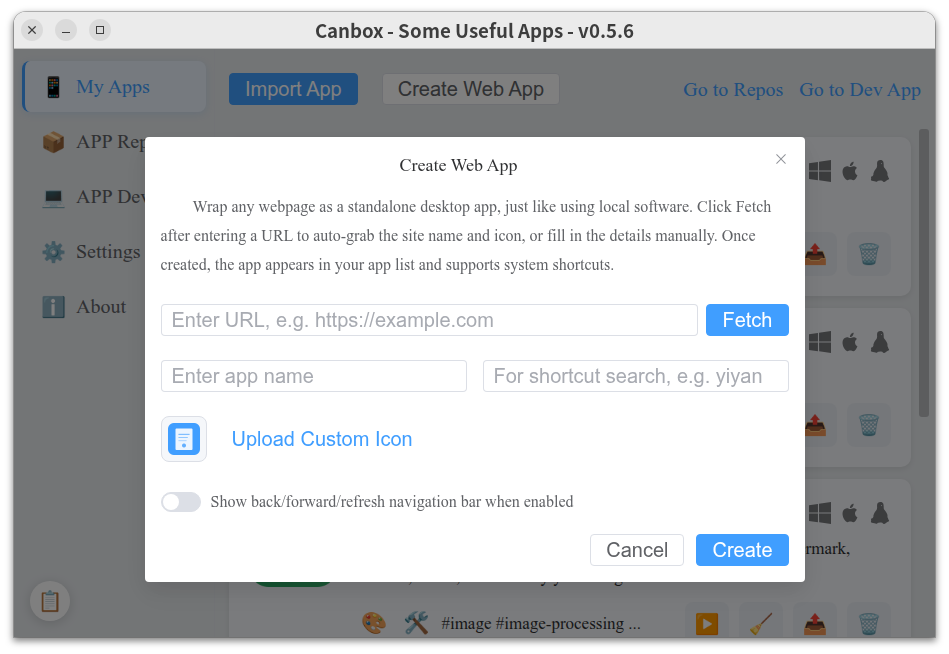
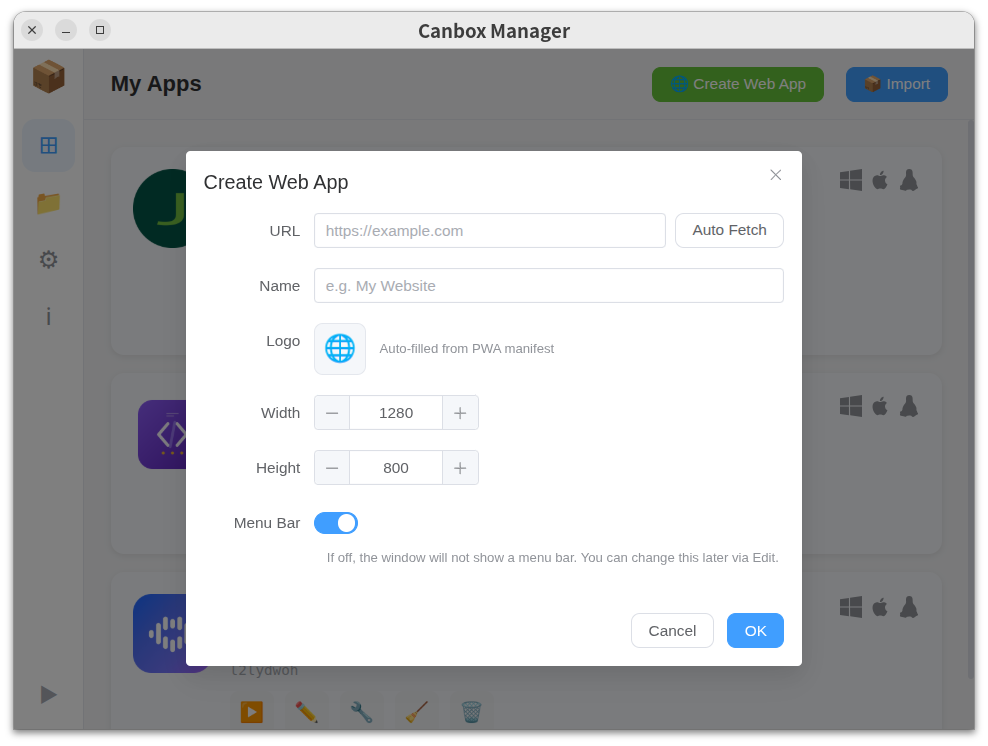
docs：更新文档，增加创建网页应用功能说明与截图

diff --git a/index.html b/index.html
@@ -61,6 +61,11 @@
                     <p class="feature-desc" data-zh="支持 APP 的导入、删除、启动和清理数据，按 appId 物理隔离，干净利落" data-en="Support APP import, delete, launch and clear data, physically isolated by appId, clean and simple">支持 APP 的导入、删除、启动和清理数据，按 appId 物理隔离，干净利落</p>
                 </div>
                 <div class="feature-card">
+                    <div class="feature-icon">🌐</div>
+                    <h3 class="feature-title" data-zh="创建网页应用" data-en="Create Web App">创建网页应用</h3>
+                    <p class="feature-desc" data-zh="将任意网址封装为桌面应用，自动抓取 PWA manifest 预填信息，Chrome UA 伪装，菜单栏可定制，独立 userData 隔离" data-en="Turn any URL into a desktop app with auto PWA manifest scraping, Chrome UA spoofing, customizable menu bar, isolated userData">将任意网址封装为桌面应用，自动抓取 PWA manifest 预填信息，Chrome UA 伪装，菜单栏可定制，独立 userData 隔离</p>
+                </div>
+                <div class="feature-card">
                     <div class="feature-icon">📚</div>
                     <h3 class="feature-title" data-zh="仓库管理" data-en="Repository Management">仓库管理</h3>
                     <p class="feature-desc" data-zh="添加 GitHub 仓库源，浏览和安装社区贡献的应用" data-en="Add GitHub repo sources, browse and install community-contributed apps">添加 GitHub 仓库源，浏览和安装社区贡献的应用</p>
@@ -119,6 +124,18 @@
                             <div class="screenshot-info">
                                 <h3 data-zh="我的 APP" data-en="My Apps">我的 APP</h3>
                                 <p data-zh="管理已安装的 APP，支持导入、启动和清理数据" data-en="Manage installed apps, import, launch, and clear data">管理已安装的 APP，支持导入、启动和清理数据</p>
+                            </div>
+                        </div>
+                        <div class="screenshot-card">
+                            <div class="screenshot-img-wrapper">
+                                <img src="./images/screenshots/MyApps-CreateWebApp.png" alt="创建网页应用" loading="lazy">
+                                <div class="screenshot-overlay">
+                                    <span class="screenshot-zoom">🔍</span>
+                                </div>
+                            </div>
+                            <div class="screenshot-info">
+                                <h3 data-zh="创建网页应用" data-en="Create Web App">创建网页应用</h3>
+                                <p data-zh="将任意网址封装为桌面应用，自动抓取 PWA manifest 预填名称和图标" data-en="Turn any URL into a desktop app with auto PWA manifest scraping for name and icon">将任意网址封装为桌面应用，自动抓取 PWA manifest 预填名称和图标</p>
                             </div>
                         </div>
                         <div class="screenshot-card">
@@ -205,6 +222,10 @@
                 <div class="usage-card">
                     <h3 data-zh="我的 APP" data-en="My Apps">我的 APP</h3>
                     <p data-zh="导入开发者打包好的应用包（ZIP 格式），一键安装使用" data-en="Import packaged apps (ZIP format), install with one click">导入开发者打包好的应用包（ZIP 格式），一键安装使用</p>
+                </div>
+                <div class="usage-card">
+                    <h3 data-zh="创建网页应用" data-en="Create Web App">创建网页应用</h3>
+                    <p data-zh="输入网址自动抓取 PWA 信息，封装为独立桌面应用" data-en="Enter a URL to auto-scrape PWA info and wrap it as a standalone desktop app">输入网址自动抓取 PWA 信息，封装为独立桌面应用</p>
                 </div>
                 <div class="usage-card">
                     <h3 data-zh="APP 仓库" data-en="App Repository">APP 仓库</h3>

diff --git a/canbox-dev.html b/canbox-dev.html
@@ -241,7 +241,7 @@ global.__CANBOX_CORE_PATH__ = path.resolve(__dirname);  // canbox-core 根目录
                     <!-- canbox-manager -->
                     <section id="manager" class="doc-section">
                         <h2 data-zh="canbox-manager（管理器 APP）" data-en="canbox-manager (Manager APP)">canbox-manager（管理器 APP）</h2>
-                        <p data-zh="canbox-manager 是 Canbox 的管理器 APP，负责 APP 管理（导入/删除/启动/清理数据）、仓库管理（添加/删除/同步）、系统设置（语言/自启/字体/日志保留）。" data-en="canbox-manager is the manager APP of Canbox, responsible for APP management (import/delete/launch/clear data), repo management (add/delete/sync), and system settings (language/autostart/font/log retention).">canbox-manager 是 Canbox 的管理器 APP，负责 APP 管理（导入/删除/启动/清理数据）、仓库管理（添加/删除/同步）、系统设置（语言/自启/字体/日志保留）。</p>
+                        <p data-zh="canbox-manager 是 Canbox 的管理器 APP，负责 APP 管理（导入/删除/启动/清理数据）、网页应用创建与编辑、仓库管理（添加/删除/同步）、系统设置（语言/自启/字体/日志保留）。" data-en="canbox-manager is the manager APP of Canbox, responsible for APP management (import/delete/launch/clear data), web app creation & editing, repo management (add/delete/sync), and system settings (language/autostart/font/log retention).">canbox-manager 是 Canbox 的管理器 APP，负责 APP 管理（导入/删除/启动/清理数据）、网页应用创建与编辑、仓库管理（添加/删除/同步）、系统设置（语言/自启/字体/日志保留）。</p>
 
                         <p data-zh="关键约束：canbox-manager 是普通 APP，通过 electron -r canbox-core/injection.js canbox-manager/ --app-id=canbox-manager 启动，不拥有特殊权限。" data-en="Key constraint: canbox-manager is an ordinary APP, launched via electron -r canbox-core/injection.js canbox-manager/ --app-id=canbox-manager, with no special privileges."><strong>关键约束</strong>：canbox-manager 是普通 APP，通过 <code>electron -r canbox-core/injection.js canbox-manager/ --app-id=canbox-manager</code> 启动，不拥有特殊权限。</p>
 
@@ -275,6 +275,7 @@ global.__CANBOX_CORE_PATH__ = path.resolve(__dirname);  // canbox-core 根目录
                             </thead>
                             <tbody>
                                 <tr><td data-zh="APP 管理" data-en="APP Management">APP 管理</td><td>5</td><td data-zh="list / import / remove / launch / clearData" data-en="list / import / remove / launch / clearData">list / import / remove / launch / clearData</td></tr>
+                                <tr><td data-zh="网页应用" data-en="Web App">网页应用</td><td>3</td><td data-zh="fetchManifest / create / edit（自动抓取 PWA manifest、生成独立 main.js、不注入 core）" data-en="fetchManifest / create / edit (auto-scrape PWA manifest, generate standalone main.js, no core injection)">fetchManifest / create / edit（自动抓取 PWA manifest、生成独立 main.js、不注入 core）</td></tr>
                                 <tr><td data-zh="仓库管理" data-en="Repo Management">仓库管理</td><td>4</td><td data-zh="list / add / remove / sync" data-en="list / add / remove / sync">list / add / remove / sync</td></tr>
                                 <tr><td data-zh="设置" data-en="Settings">设置</td><td>3</td><td data-zh="get / set / getAll" data-en="get / set / getAll">get / set / getAll</td></tr>
                                 <tr><td data-zh="文件任务" data-en="File Tasks">文件任务</td><td>3</td><td data-zh="create / cancel / list" data-en="create / cancel / list">create / cancel / list</td></tr>
